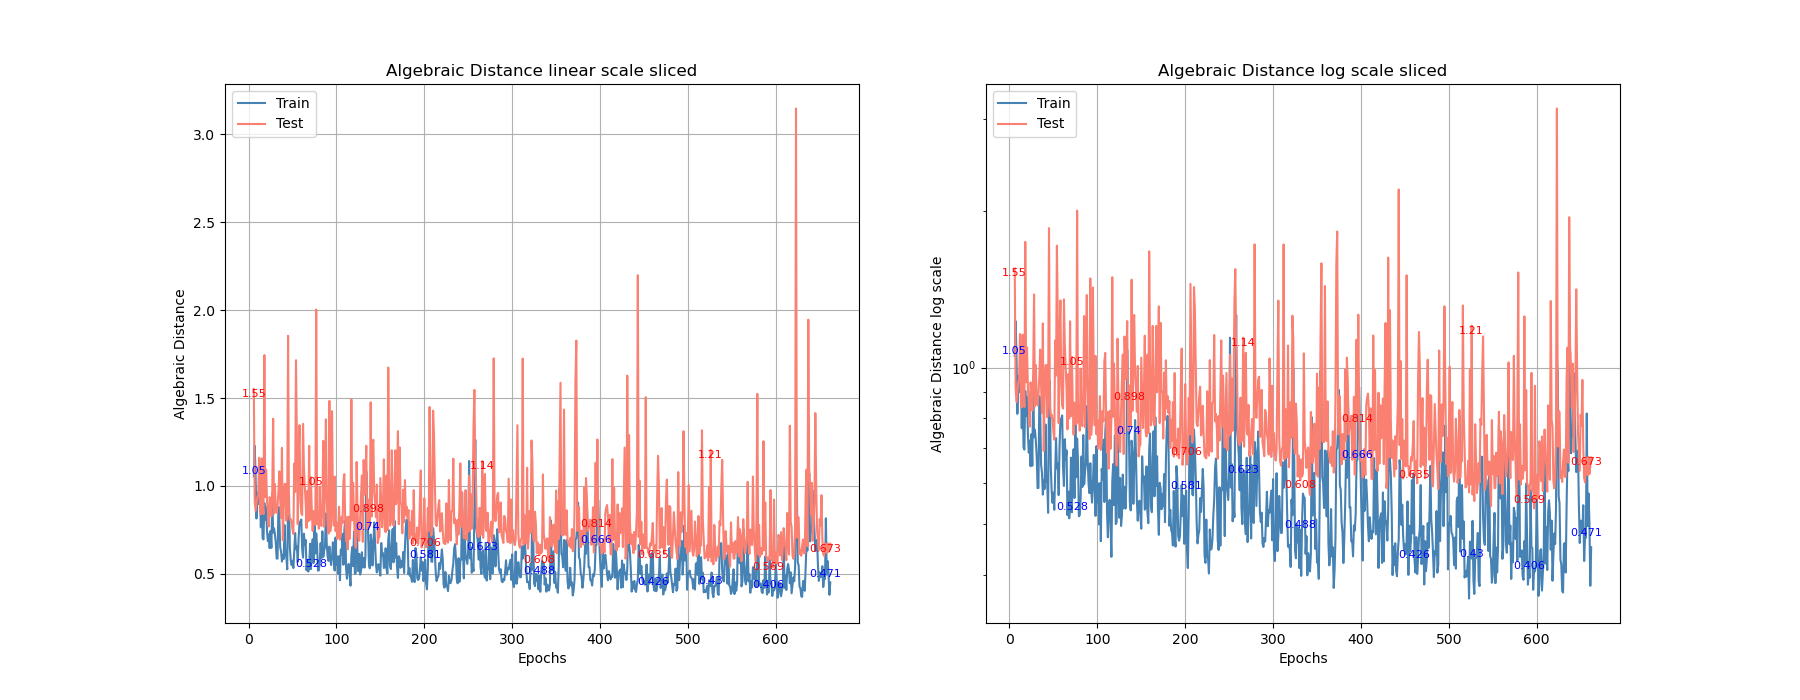
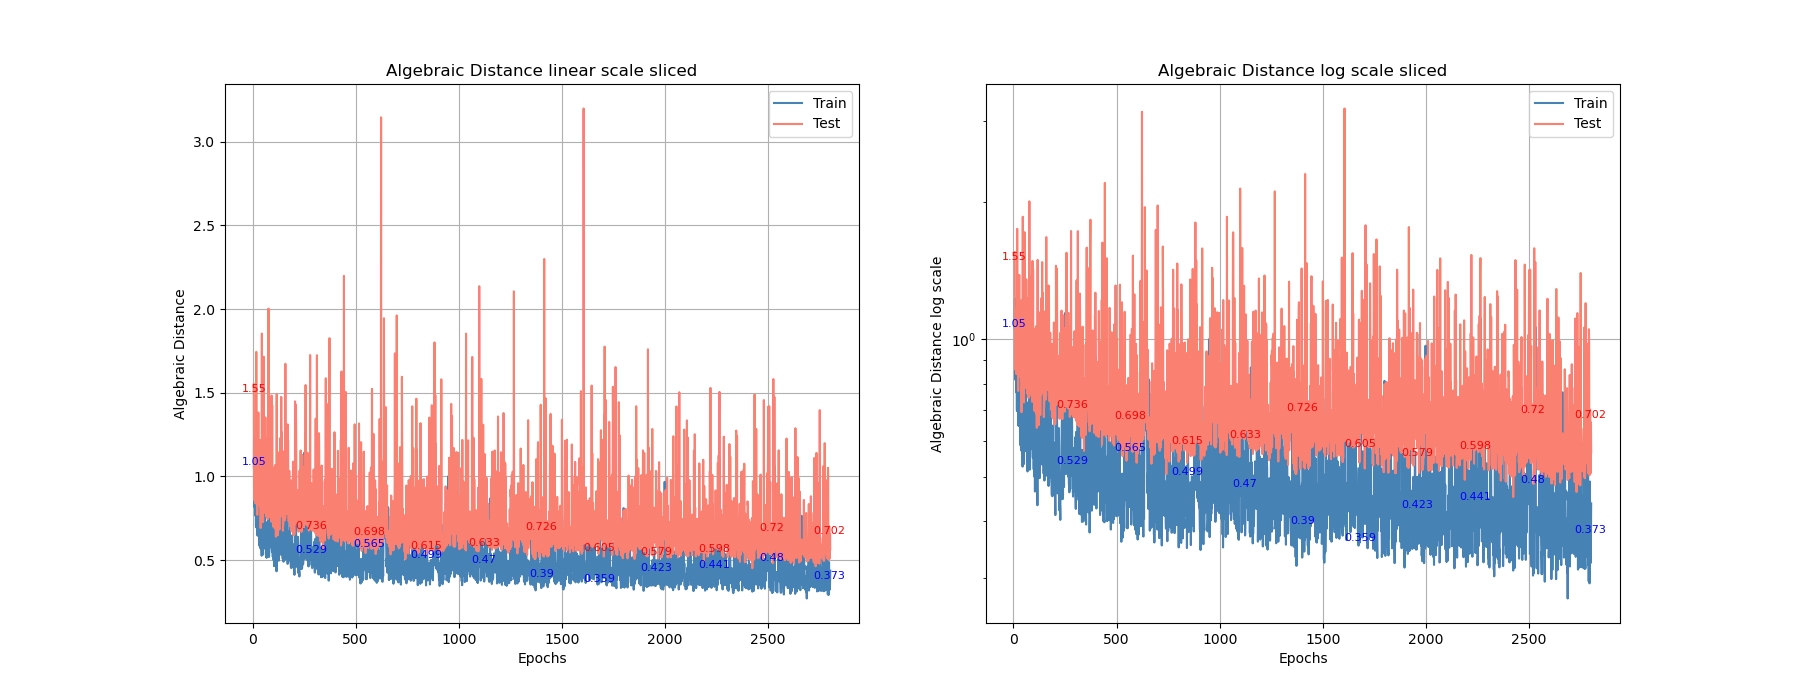
.

diff --git a/params.py b/params.py
@@ -11,7 +11,7 @@ FIRST_2_OF_3_TRAIN = False
 train_seqeunces_stereo = [0,2,3,5] #  10840 images 
 val_sequences_stereo =  [6,7,8]    #  3682 images
 test_sequences_stereo = [9]        #  1064 images
-SEQ_RATIOS = [0.1]      # 3251, 2166, 1082, 540, 405, 269
+SEQ_RATIOS = [0.0375]      # 3251, 2166, 1082, 540, 405, 269
 CROP = 224
 RESIZE = 256
 USE_REALESTATE = False
@@ -21,7 +21,7 @@ JUMP_FRAMES = 6 if USE_REALESTATE else 2
 AUGMENTATION = True
 RANDOM_CROP = True
 INIT_DATA = True
-PART = ["mid"]                                                  
+PART = ["head"]                                                  
 
 ### Training ###
 LR = [1e-4]                                                             # TODO lr: 5e-4, 1e-4, 5e-5, 2e-5
@@ -40,6 +40,7 @@ NUM_EPOCHS = 1500
 VISIUALIZE = {"epoch" : -1, "dir": 'predicted_epipole_lines'}
 ADDITIONS = ""                                     
 GET_OLD_PATH = False
+SEED = 42
 
 ### Epipolar geometry ###
 RE1_DIST = True
@@ -68,7 +69,7 @@ AVG_EMBEDDINGS = False
 USE_CONV = True
 USE_CONV = False if DEEPF_NOCORRS else USE_CONV
 NUM_OUTPUT = 8 if USE_RECONSTRUCTION_LAYER else 9
-FROZEN_LAYERS = [4, 8]
+FROZEN_LAYERS = [0]
 norm_mean = torch.tensor([0.48145466, 0.4578275, 0.40821073]).to(device) if MODEL == CLIP_MODEL_NAME else torch.tensor([0.5, 0.5, 0.5]).to(device)
 norm_std = torch.tensor([0.26862954, 0.26130258, 0.27577711]).to(device) if MODEL == CLIP_MODEL_NAME else torch.tensor([0.5, 0.5, 0.5]).to(device)
 

diff --git a/Main.py b/Main.py
@@ -2,7 +2,6 @@
 # mp.set_start_method('spawn', force=True)
 
 import os
-import pickle
 # os.environ['CUDA_LAUNCH_BLOCKING'] = '1'
 # os.environ['TORCH_USE_CUDA_DSA'] = '1'
 # os.environ["KMP_DUPLICATE_LIB_OK"] = "TRUE"
@@ -37,13 +36,17 @@ if __name__ == "__main__":
         seq_ratios = args.dr if args.dr else SEQ_RATIOS
         part = args.parts if args.parts else PART
         frozen_layers = args.fl if args.fl else FROZEN_LAYERS
-        
+
         # Iterate over each combination
         param_combinations = itertools.product(ALG_COEFF, RE1_COEFF, SED_COEFF, seq_ratios, lrs, batch_size, part, frozen_layers)
         with open ('not_good.txt', 'r') as f:
                 not_good = f.read().splitlines()
 
         for i, (alg_coeff, re1_coeff, sed_coeff, data_ratio, lr, bs, part, fl) in enumerate(param_combinations):
+                torch.manual_seed(SEED)
+                torch.cuda.manual_seed(SEED)
+                torch.cuda.manual_seed_all(SEED)  # If using multi-GPU.
+
                 lr_decay = 0.85 if lr < 1e-4 else 0.8
                 num_epochs = 2000 if data_ratio==0.3 else 3000 if data_ratio==0.2 else 4000 if data_ratio==0.1 else 5500 if data_ratio==0.05 else 7000 if data_ratio==0.0375 else 8000 if data_ratio==0.025 else 0
                 if num_epochs == 0:

diff --git a/FMatrixRegressor.py b/FMatrixRegressor.py
@@ -223,7 +223,7 @@ SED_truth: {epoch_stats["SED_truth"]}\t\t val_SED_truth: {epoch_stats["val_SED_t
                 
             # If the model is not learning or outputs nan, stop training
             if check_nan(self.all_train_loss[-1], self.all_val_loss[-1], self.all_train_mae[-1], self.all_val_mae[-1], self.plots_path) or \
-                (epoch == int(self.num_epochs * 2/5) and not_learning(self.all_val_SED_pred)):
+                (epoch == int(self.num_epochs * 2/5) and not_learning(self.all_val_SED_pred, self.plots_path)):
                 self.num_epochs = epoch + 1
                 break
 

diff --git a/utils.py b/utils.py
@@ -143,7 +143,7 @@ def check_nan(all_train_loss_last, all_val_loss_last, train_mae_last, val_mae_la
         return True
     return False
 
-def not_learning(val_sed):
+def not_learning(val_sed, plots_path):
     if sum(val_sed[-150:]) > sum(val_sed[200:350]) - (100*0.8):
         print_and_write("not learning\n", plots_path)
         return True
